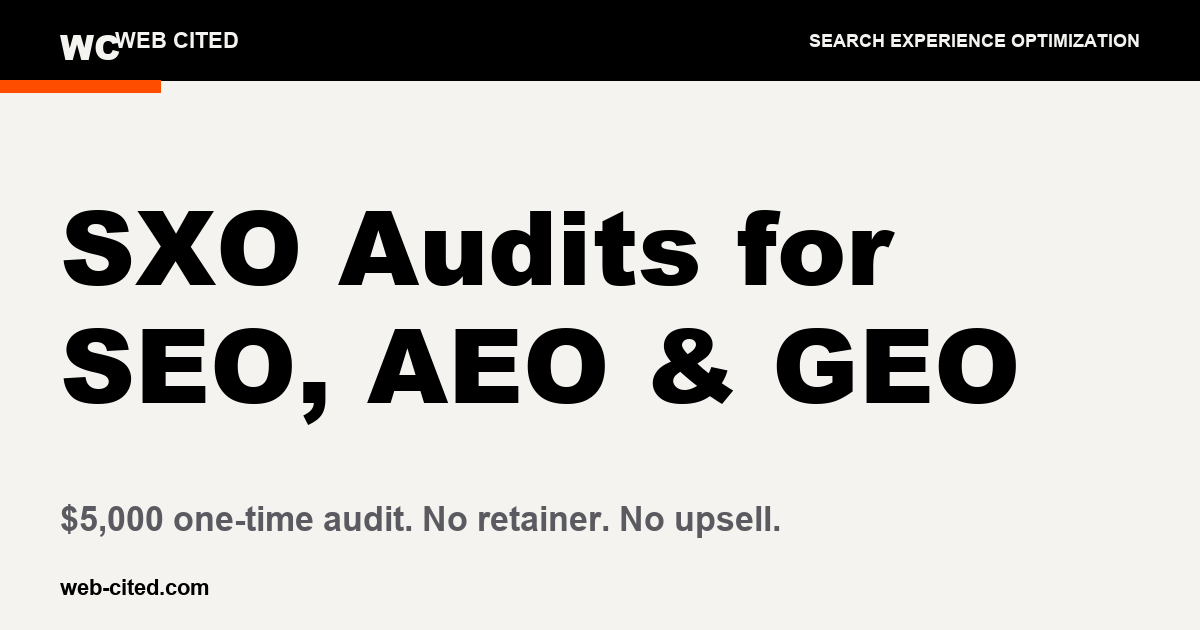
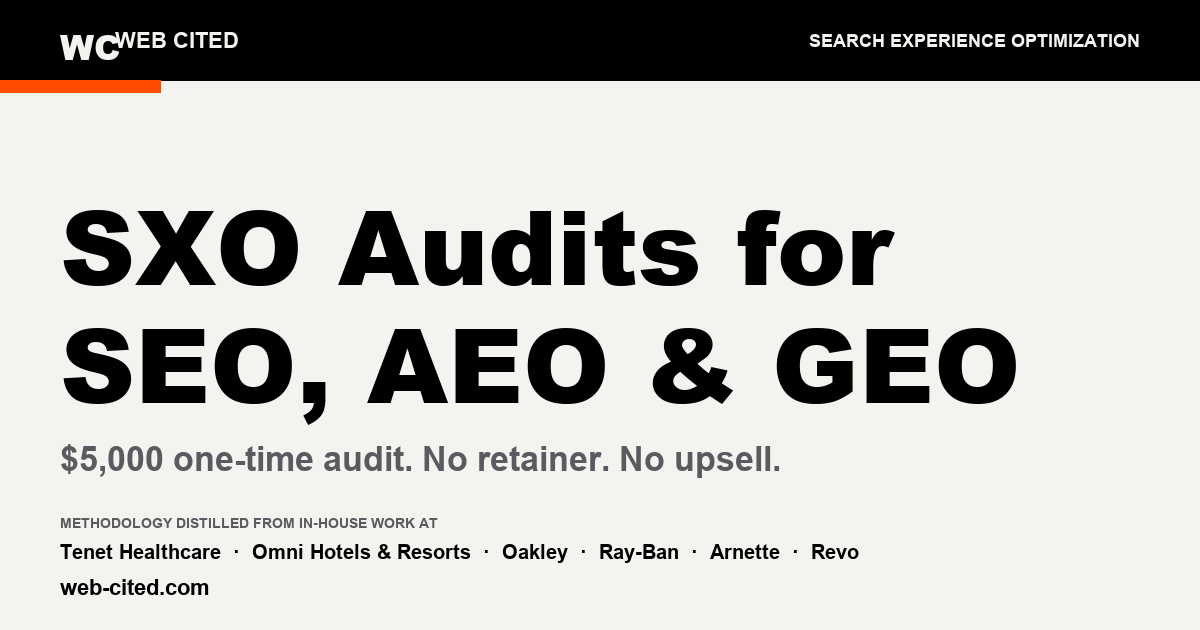
OG images: add founder-experience trust strip
Regenerate all 6 OG/social cards (home, services, how-it-works,
why-sxo, pricing, about) to include a compact trust strip above
the URL: a small eyebrow 'METHODOLOGY DISTILLED FROM IN-HOUSE
WORK AT' and the six brand names already shown on-page
(Tenet Healthcare, Omni Hotels & Resorts, Oakley, Ray-Ban,
Arnette, Revo). Matches the on-page experience-strip treatment
and keeps the past-tense 'methodology distilled from' framing
that avoids implying these are Web Cited clients.

Changed region(s): [[0.0308, 0.7841, 0.6475, 0.9048], [0.0308, 0.6937, 0.6475, 0.754], [0.6783, 0.8444, 0.7092, 0.9048]]

diff --git a/og/_make.py b/og/_make.py
@@ -13,6 +13,9 @@ BLACK = "/System/Library/Fonts/Supplemental/Arial Black.ttf"
 BOLD = "/System/Library/Fonts/Supplemental/Arial Bold.ttf"
 REG = "/System/Library/Fonts/Supplemental/Arial.ttf"
 
+TRUST_NAMES = ["Tenet Healthcare", "Omni Hotels & Resorts", "Oakley", "Ray-Ban", "Arnette", "Revo"]
+TRUST_EYEBROW = "METHODOLOGY DISTILLED FROM IN-HOUSE WORK AT"
+
 pages = [
     ("home", "SXO Audits for\nSEO, AEO & GEO", "$5,000 one-time audit. No retainer. No upsell."),
     ("services", "One audit.\nEvery engine.", "SEO, AEO, GEO, and the off-site content engines quote."),
@@ -52,7 +55,16 @@ for slug, headline, sub in pages:
 
     # Subhead
     sub_font = ImageFont.truetype(BOLD, 34)
-    d.text((60, H - 130), sub, font=sub_font, fill=SLATE)
+    d.text((60, H - 190), sub, font=sub_font, fill=SLATE)
+
+    # Trust strip: small eyebrow + flattened brand-experience list.
+    # Keeps the copy-level promise honest (past in-house work, not clients)
+    # and matches the on-page experience-strip treatment.
+    eyebrow_font = ImageFont.truetype(BOLD, 14)
+    d.text((60, H - 115), TRUST_EYEBROW, font=eyebrow_font, fill=SLATE)
+    trust_font = ImageFont.truetype(BOLD, 20)
+    trust_line = "  ·  ".join(TRUST_NAMES)
+    d.text((60, H - 90), trust_line, font=trust_font, fill=INK)
 
     # Bottom URL
     url_font = ImageFont.truetype(BOLD, 22)
